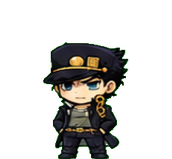
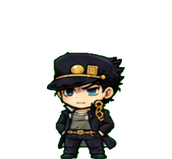
fix(character): Match Jotaro's idle scale to his other animations (#2162)

Changed region(s): [[0.2326, 0.2516, 0.7558, 1.0], [0.5233, 0.956, 0.5523, 1.0]]

diff --git a/crates/core/tests/character_packages.rs b/crates/core/tests/character_packages.rs
@@ -697,6 +697,51 @@ fn timber_wolf_rack_offset(bytes: &[u8]) -> f32 {
     (x_min + x_max) as f32 / 2.0 - racks / n
 }
 
+/// Rows from the top to the bottom of a drawn frame's visible pixels, and the
+/// lowest row wide enough to be feet.
+fn drawn_rows(character: &character::Character, name: &str, index: usize) -> (u32, u32, u32) {
+    let fps = character.animations[name].fps;
+    let at = (index as u32 * 1000).div_ceil(fps);
+    let drawn = character.draw(name, at, 0, 1.0).expect("draws");
+    assert_eq!(drawn.index, index, "{name} reaches frame {index}");
+    let (width, height, pixels) = drawn.mask.raw();
+    let mut rows = pixels.chunks_exact(width as usize);
+    let top = rows
+        .clone()
+        .position(|row| row.contains(&true))
+        .expect("visible");
+    let bottom = rows
+        .clone()
+        .rposition(|row| row.contains(&true))
+        .expect("visible");
+    let feet = rows
+        .rposition(|row| row.iter().filter(|&&solid| solid).count() >= FOOT_PIXELS)
+        .expect("solid feet");
+    ((bottom - top + 1) as u32, height as u32, feet as u32)
+}
+
+/// Idle stands as tall as the walk, within the walk's own stride bob plus 2%.
+#[test]
+fn jotaro_idle_draws_at_the_same_standing_scale_as_his_walk() {
+    let character = load_package("jotaro-kujo").expect("Jotaro package is valid");
+    let walk: Vec<u32> = (0..character.animations["walk"].frames.len())
+        .map(|index| drawn_rows(&character, "walk", index).0)
+        .collect();
+    let (shortest, tallest) = (*walk.iter().min().unwrap(), *walk.iter().max().unwrap());
+    let slack = tallest as f32 * 0.02;
+    for index in 0..character.animations["idle"].frames.len() {
+        let (idle, height, feet) = drawn_rows(&character, "idle", index);
+        assert!(
+            (shortest as f32 - slack..=tallest as f32 + slack).contains(&(idle as f32)),
+            "idle frame {index} is {idle} rows tall; the walk is {shortest}-{tallest}"
+        );
+        assert!(
+            height - 1 - feet <= 2,
+            "idle frame {index} must keep its feet within 2px of the canvas floor"
+        );
+    }
+}
+
 /// Jump draws `fall`, and Jotaro's fall frames face left while his walk faces
 /// right. The manifest says so, and the renderer mirrors each to the travel.
 #[test]
